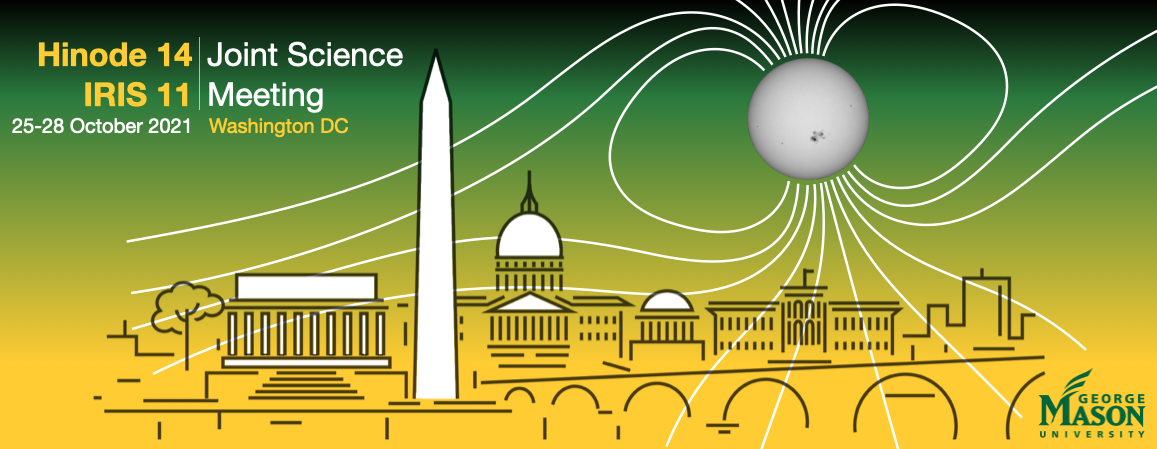
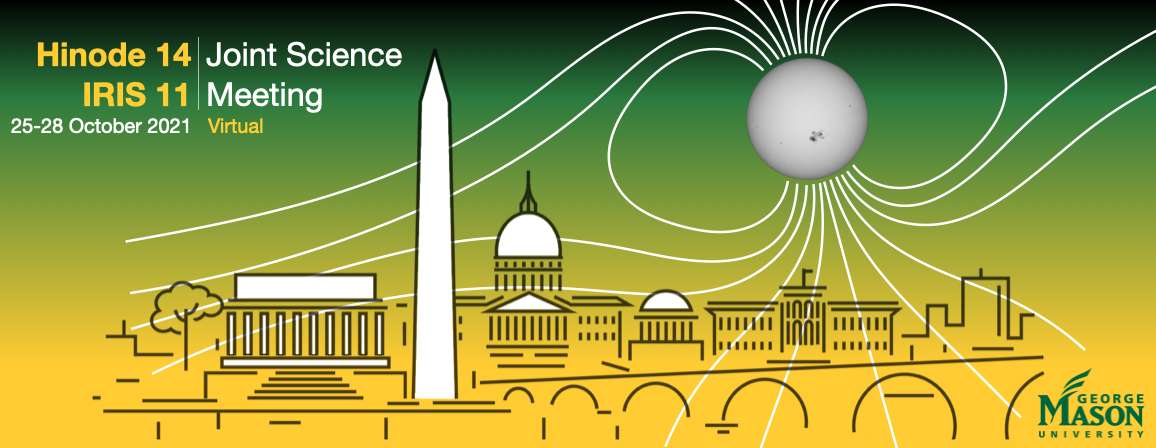
mods

diff --git a/index.html b/index.html
@@ -29,7 +29,7 @@
     #base {
         background-color: white;
         width: 825px;
-				height: 2200px;
+				height: 1500px;
 				padding: 25px;
 				border: 2px solid white;
 				margin: 0 auto;}
@@ -83,73 +83,28 @@
     </div>
 
     <div id="base">
-				<div class="bgrid">
-					<button id="myBtn1" onclick="window.open('https://arlington.gmu.edu/', '_blank');
-																			return false;">Meeting Venue</button>
-          <!-- <button id="myBtn1" onclick="window.open('https://goo.gl/maps/LfMSFMVhGX4ezHcJ8', '_blank'); -->
-					<button id="myBtn1" onclick="window.open('https://goo.gl/maps/31mXttcH6xjCo1aWA', '_blank');
-																			return false;">Google Map</button>
-					<button id="myBtn1" onclick="window.open('https://washington.org/', '_blank');
-																			return false;">Visitor Info</button>
-          <button id="myBtn1" onclick="window.open('travel_support.html', '_blank');
-                                      return false;">Travel Support</button>
-          <button id="myBtn1" onclick="window.open('poster.html', '_blank');
-                            					return false;">Poster</button>
-				</div>
-        <br>
-        <!-- <p class="p2" style="text-align:center">ABSTRACT Submission and Full Website available soon. Check back!<br> -->
-        <br>
         <p class="p1" style="text-align:center">Hinode-14 / IRIS-11 Joint Science Meeting <br>
-        <p class="p2" style="text-align:center">The Hinode-14 / IRIS-11 meeting <b>WILL</b> take place during the week of October 25-28, 2021.
+        <p class="p2" style="text-align:center">The Hinode-14 / IRIS-11 meeting will take place during the week of October 25-28, 2021.
 
-        <p class="p2" style="text-align:center"><b>The meeting will be either HYBRID or FULLY VIRTUAL. </b>
-        <p class="p2" style="text-align:center">The final format will be confirmed by <b>August 20, 2021.</b>
+        <p class="p2" style="text-align:center"><b>The meeting will be VIRTUAL. </b>
         <p class="p2" style="text-align:center">The <b>Abstract Submission</b> is open and ends <b>September 1st, 2021</b>.<br>
         <br>
         <button id="myBtn1" onclick="window.open('https://www.cvent.com/c/abstracts/c202b6a9-d901-4d08-ba53-3a61a5fca747', '_blank');
   																			return false;">Abstract Submission</button>
         <br>
-        <p class="p2" style="text-align:center">The <b>Meeting Registration</b> will open after the format is confirmed.<br>
+        <p class="p2" style="text-align:center">The <b>Meeting Registration</b> will open on September 1st, 2021.<br>
+          <p class="p2" style="text-align:center">Registration is free of charge.<br>
         <br>
-        <p class="p2">These are the two formats considered:<br>
         <table width="100%" border="2" bordercolor=#2E6438 cellpadding="5pixels">
         <tr><td align="CENTER" valign="CENTER" cellpadding="5">
-        <p class="p2"  style="text-align:center"><b> HYBRID (preferred option)</b>
-        <p class="p2">The meeting will be HYBRID with both in-person and virtual participation <b>IF
-        institutional travel restrictions are lifted by August 20, 2021</b>, and (at the very least)
-        domestic participants are allowed to travel to Washington, D.C. Currently, many institutions do
-        not allow travel to conferences and meetings. The in-person component of the meeting
-        will take place at the Arlington Campus of George Mason University, Arlington, Virginia, as originally planned. The campus is
-        just across the river to the National Mall, and only a few metro/subway stops away from the White House and other
-        landmarks of the United States Capital. Remote participants will be able to attend the meeting through a virtual platform,
-        and will be able to contribute with oral or poster presentations. Live-in-person, live-remote and pre-recorded talks are
-        being considered by the LOC and SOC. All presentations will be recorded and made available immediately. Details will
-        become available when the meeting format is confirmed.<br>
+        <p class="p2"  style="text-align:center"><b>VIRTUAL MEETING</b>
+        <p class="p2">Participants will be able to attend the meeting through a virtual platform, and will be able to contribute
+        with oral or poster presentations. Live-in-person, live-remote and pre-recorded talks are being considered by the LOC
+        and SOC. All presentations will be recorded and made available immediately. Details will become available soon. <br>
         </td>
         </tr>
         </table>
 
-        <br>
-        <br>
-
-        <table width="100%" border="2" bordercolor=#2E6438 cellpadding="5pixels">
-        <tr><td align="CENTER" valign="CENTER" cellpadding="5">
-        <p class="p2"  style="text-align:center"><b> FULLY VIRTUAL (back-up plan)</b>
-        <p class="p2">The meeting will be fully virtual  <b>IF</b> institutional travel restrictions
-        are <b>NOT</b> lifted by August 20, 2021. Remote participants will be able to attend the meeting through a virtual platform,
-        and will be able to contribute with oral or poster presentations. Live-in-person, live-remote and pre-recorded talks are
-        being considered by the LOC and SOC. All presentations will be recorded and made available immediately. Details will
-        become available when the meeting format is confirmed. <br>
-        </td>
-        </tr>
-        </table>
-
-        <br>
-        <p class="p2" align="CENTER" > Please, <b><u>DO NOT make your flight plans</u></b> until the LOC confirms the final format of the meeting.
-        Even if restrictions have been lifted for you, the LOC will need to assess how the restrictions apply to the overall
-        community. An attendance of ~50 people is needed to make the in-person component feasible.
-
-        <br>
         <br>
 
         <p class="p2">The meeting will highlight the most recent achievements of the IRIS and Hinode missions
@@ -159,15 +114,9 @@
           participants to consider submissions on these topics, including coordination with other ground
           facilities and space missions such as Parker Solar Probe, Solar Orbiter and SDO.<br>
 
-        <p class="p2">If the meeting is HYBRID, we will have a limited number of <u>travel grants available</u>
-          to help young students and early-career researchers. Please, visit the <u>Travel Support section</u>
-          for more information.
-
-        <p class="p2">Details about other deadlines, invited speakers and additional information will appear <u>soon
-          on the full website</u> and in subsequent announcements.<br>
 
         <p class="p2" style="text-align:center"><b>The Hinode-14 / IRIS-11 Joint meeting acknowledges support
-        from George Mason University (GMU), the European Space Agency (ESA), the National Solar
+        from George Mason University (GMU), the National Solar
         Observatory (NSO), National Science Foundation (NSF), Scientific Committee on
         Solar-Terrestrial Physics (SCOSTEP)/Predictability of the Solar-Terrestrial Coupling
         (PRESTO) program, and NASA through the Hinode and IRIS projects.</b><br>
